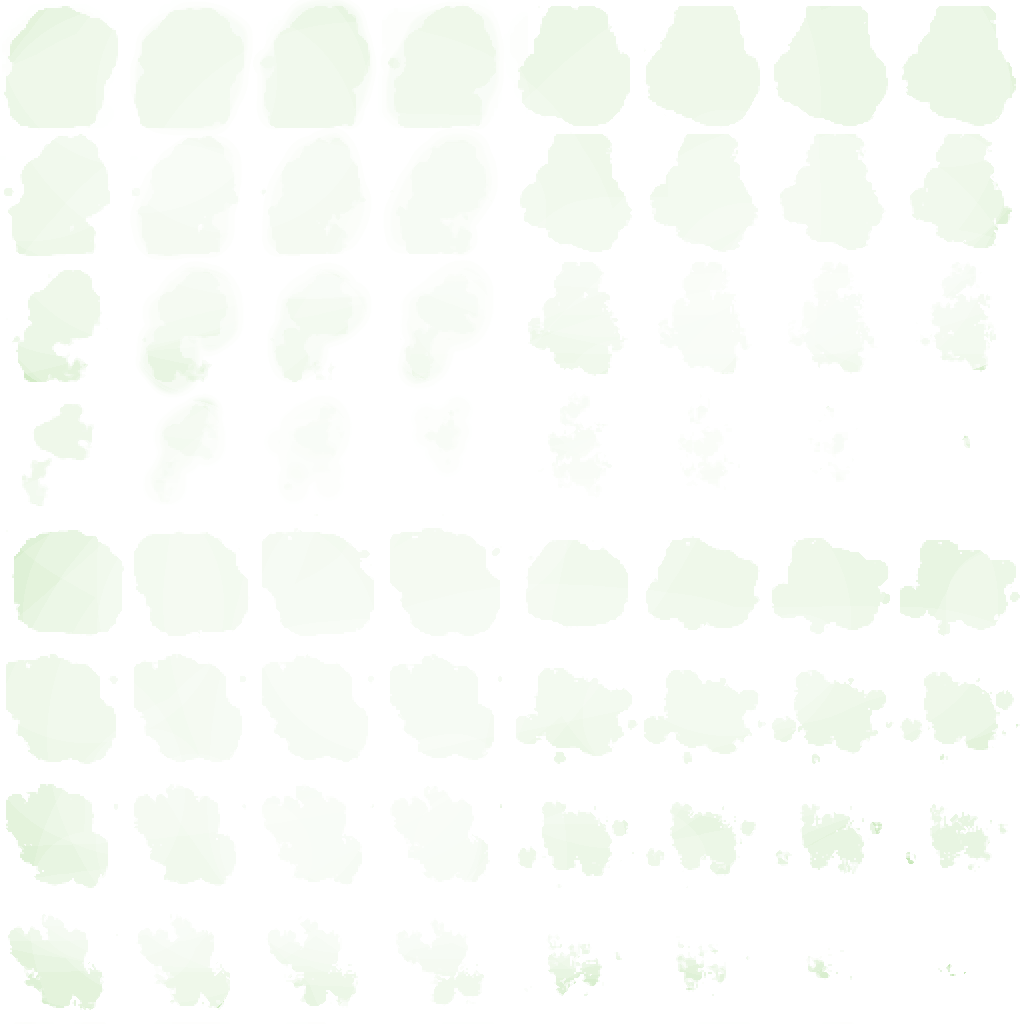
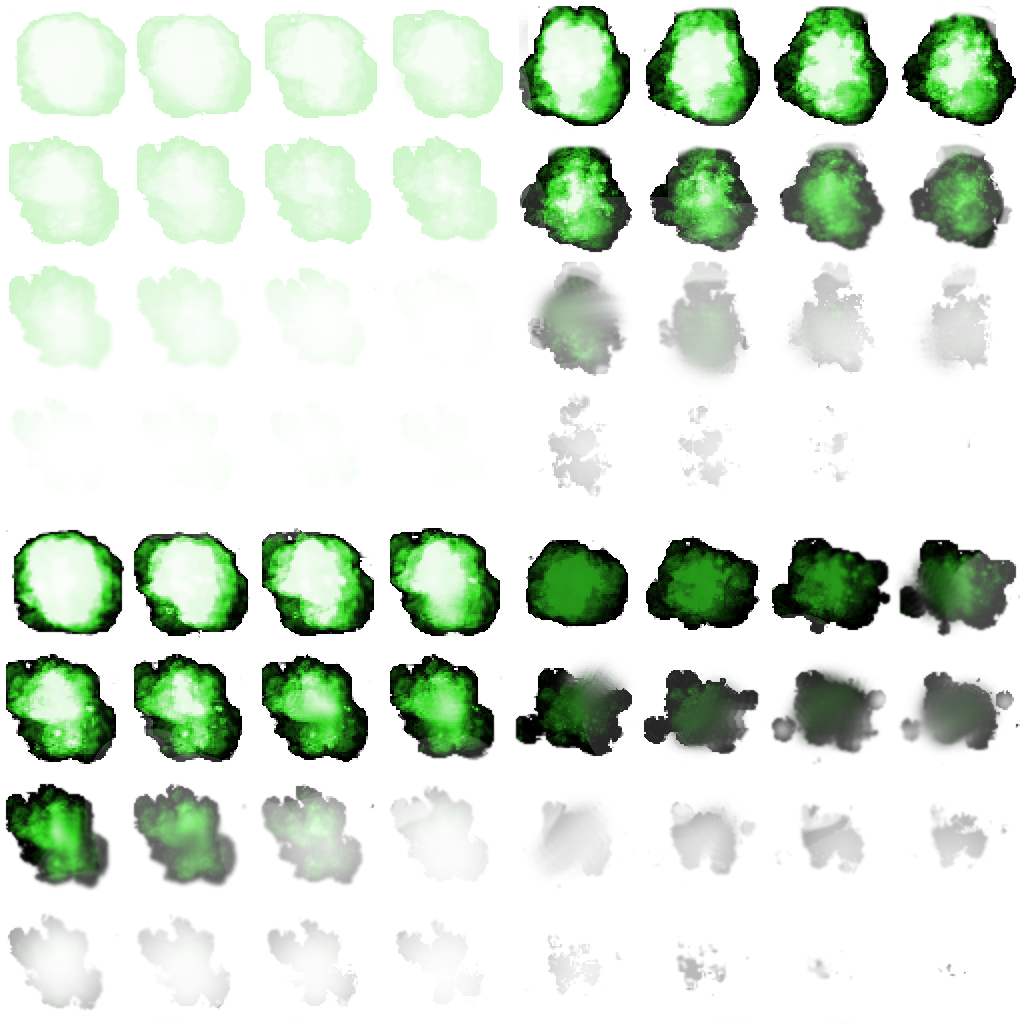
work in progress

diff --git a/src/wid.c b/src/wid.c
@@ -6842,6 +6842,10 @@ static inline void wid_display_fast (widp w)
     int32_t bry;
     widp p;
 
+    if (wid_this_is_hidden(w)) {
+        return;
+    }
+
     /*
      * Bounding box for drawing the wid. Co-ords are negative as we
      * flipped the screen
@@ -6850,13 +6854,6 @@ static inline void wid_display_fast (widp w)
     tly = w->abs_tl.y;
     brx = w->abs_br.x;
     bry = w->abs_br.y;
-
-    double fade = 0;
-
-    fading = (w->fade_out || w->fade_in);
-    if (fading) {
-        fade = wid_get_fade_amount(w);
-    }
 
     /*
      * Record the original pre clip sizes for text centering.
@@ -6889,32 +6886,15 @@ static inline void wid_display_fast (widp w)
     /*
      * Draw the wid frame
      */
-    color col_text = wid_get_color(w, WID_COLOR_TEXT);
-    color col_text_outline = BLACK;
-
-    color col_tl = wid_get_color(w, WID_COLOR_TL);
-    color col_br = wid_get_color(w, WID_COLOR_BR);
-    color col = wid_get_color(w, WID_COLOR_BG);
     color col_tile = wid_get_color(w, WID_COLOR_BLIT);
 
     /*
      * Apply fade in/out effects.
      */
+    fading = (w->fade_out || w->fade_in);
     if (fading) {
         double fade = wid_get_fade_amount(w);
 
-        /*
-         * So hidden scrolbars stay hidden in a fading parent. I'm drunk.
-         */
-        if (!w->fade_out && !w->fade_in && w->hidden) {
-            fade = 0.0;
-        }
-
-        col_tl.a *= fade;
-        col.a *= fade;
-        col_br.a *= fade;
-        col_text.a *= fade;
-        col_text_outline.a *= fade;
         col_tile.a *= fade;
     }
 

diff --git a/src/wid_game_map_client.c b/src/wid_game_map_client.c
@@ -757,10 +757,10 @@ wid_game_map_client_replace_tile (widp w, double x, double y, thingp t)
     double dy = 0;
 
     if (thing_is_explosion(t)) {
-        wid_blit_scaling_to_pct_in(child, 1.0, 2.0, 500, 0);
+        wid_blit_scaling_to_pct_in(child, 1.0, 3.0, 500, 0);
         dx = ((double)((rand() % 100) - 50)) / 100.0;
         dy = ((double)((rand() % 100) - 50)) / 100.0;
-        wid_fade_out(child, 2000);
+        wid_fade_out(child, 1500);
     }
 
     if (thing_is_mob_spawner(t)) {

diff --git a/src/config.h b/src/config.h
@@ -87,7 +87,9 @@
 #define MAP_DEPTH_WALL              2
 #define MAP_DEPTH_MONST             3
 #define MAP_DEPTH_PLAYER            4
-#define MAP_DEPTH                   5
+#define MAP_DEPTH_EXPLOSION         4
+#define MAP_DEPTH_EXPLOSION_TOP     5
+#define MAP_DEPTH                   6
 #define MAP_BORDER                  3
 
 #define MAP_THINGS_PER_CELL         32
